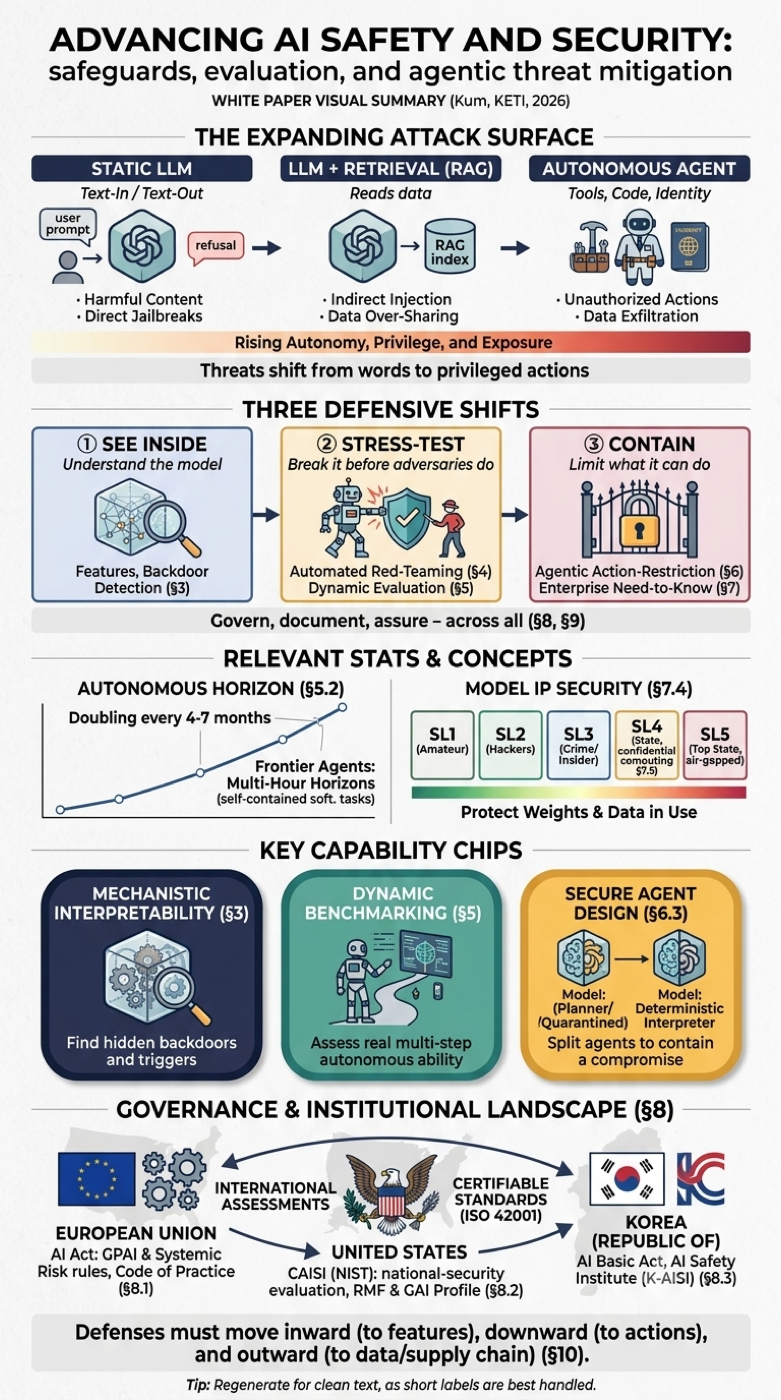
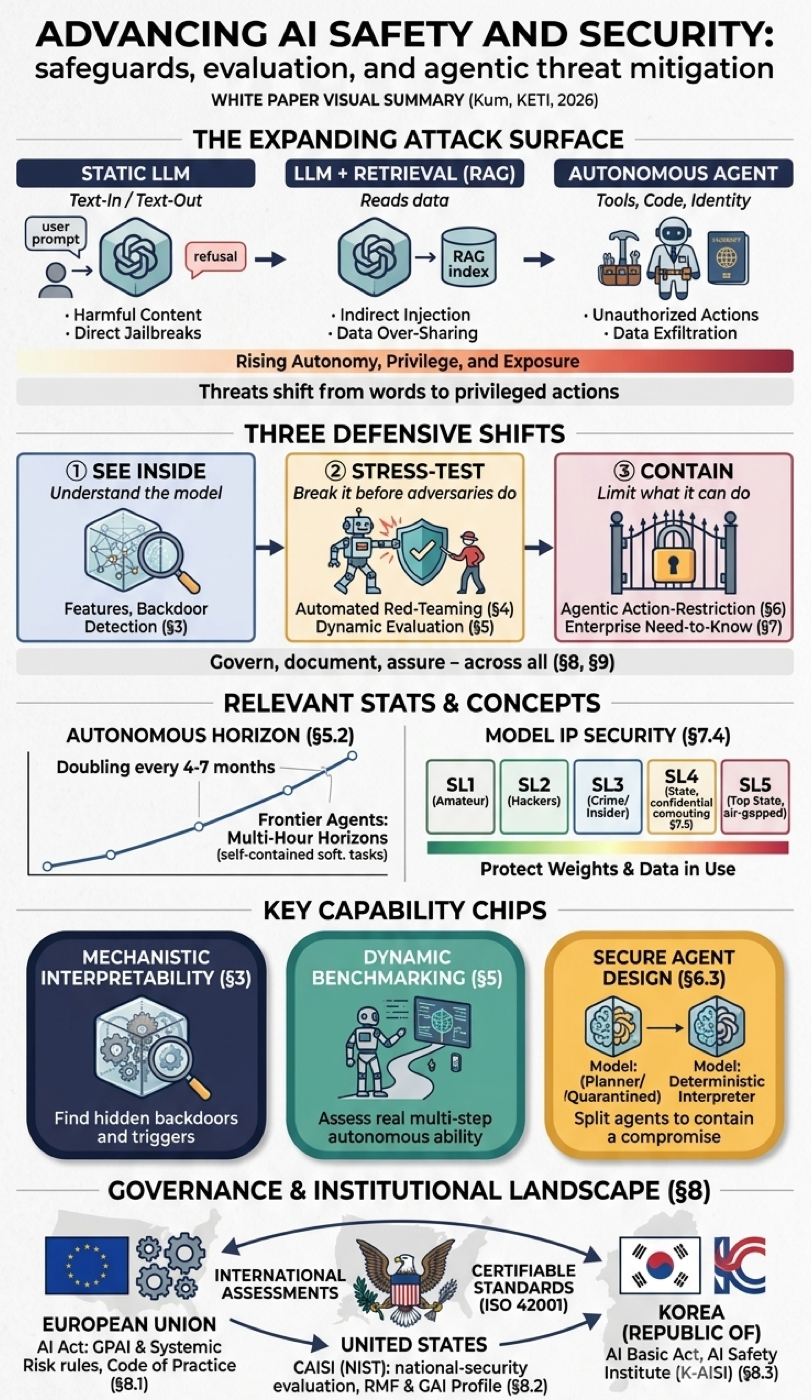
post: swap in cleaned visual summary; move date earlier so Jekyll builds it
The 14:00+0900 timestamp was in the future at build time, and Jekyll skips
future-dated posts by default (future: false), so both posts 404'd while the
PDF and image were already live.

diff --git a/_posts/2026-07-23-ai-safety-security-white-paper.md b/_posts/2026-07-23-ai-safety-security-white-paper.md
@@ -1,7 +1,7 @@
 ---
 layout: post
 title: "White Paper: Advancing AI Safety and Security"
-date: 2026-07-23 14:00:00+0900
+date: 2026-07-23 11:00:00+0900
 description: A technical white paper on AI safety and security in the agentic era — mechanistic interpretability, automated red-teaming, dynamic evaluation, agentic action-restriction, enterprise confidentiality, and the governance landscape across the EU, the US, and Korea. Free to download (CC BY-NC 4.0).
 tags: AI-safety AI-security agentic-AI interpretability red-teaming governance white-paper
 thumbnail: assets/img/ai-safety-security-summary.png

diff --git a/_ko/2026-07-23-ai-safety-security-white-paper.md b/_ko/2026-07-23-ai-safety-security-white-paper.md
@@ -2,7 +2,7 @@
 layout: post
 lang: ko
 title: "백서: AI 안전성과 보안"
-date: 2026-07-23 14:00:00+0900
+date: 2026-07-23 11:00:00+0900
 permalink: /blog/ko/ai-safety-security-white-paper/
 description: 에이전틱 시대의 AI 안전성과 보안을 다룬 기술 백서. 기계적 해석가능성, 자동화된 레드티밍, 동적 평가, 에이전트 행위 제한, 기업 기밀성, 그리고 EU·미국·한국의 거버넌스 지형까지. 자유롭게 내려받을 수 있다 (CC BY-NC 4.0).
 tags: AI-safety AI-security agentic-AI interpretability red-teaming governance white-paper korean
